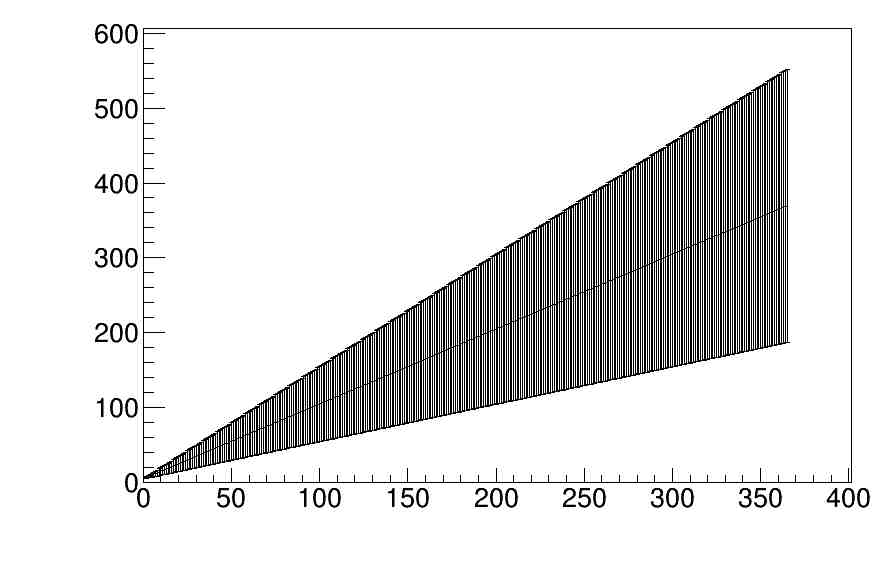
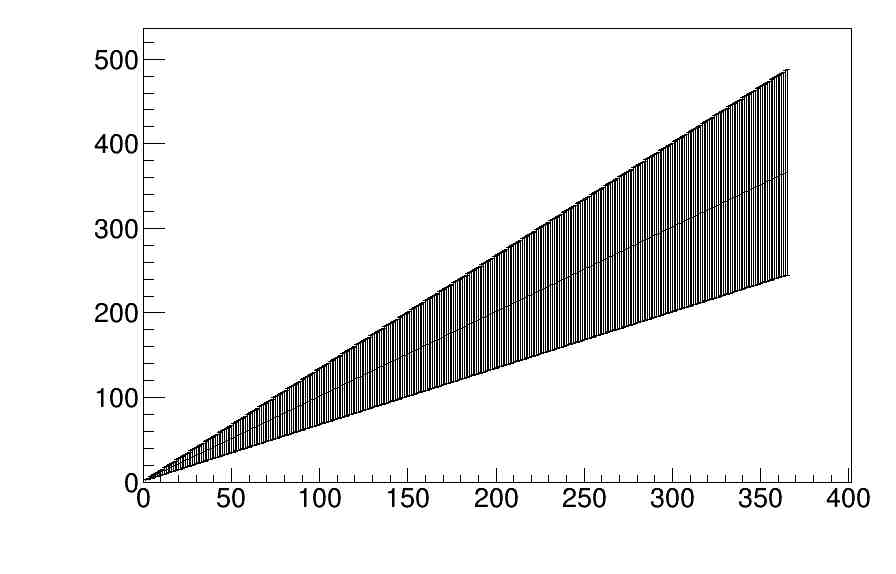
trying to fix issues with plotting in LatDiff

diff --git a/project/project.C b/project/project.C
@@ -39,13 +39,13 @@ Double_t * everyDay(string filePath="../clean_data/upsala_clean.dat", Int_t plot
 	Int_t n=365;
 	Double_t *p;
 	Double_t daysMean[n],daysStaDev[n],days[n],zeros[n];
-	static Double_t store[2][365];
+	static Double_t store[365];
 	//vector<Double_t> daysMean;
 	//vector<Double_t> daysStaDev;
 	//vector<Int_t> days;
 	//vector<Int_t> zeros;
 	for(Int_t i = 0; i < n; i++){
-		p = oneDay(filePath,i+1,0);
+		p = oneDay(filePath,i,0);
 		daysMean[i]=p[0];
 		daysStaDev[i]=p[1];
 		days[i]=i+1;
@@ -55,10 +55,12 @@ Double_t * everyDay(string filePath="../clean_data/upsala_clean.dat", Int_t plot
 		//days.push_back(i);
 		//zeros.push_back(0);
 		if (plot == 0){
-			store[0][i] = p[0];
-			store[1][i] = p[1];
+			store[i] = daysMean[i];
+			
 		}
-		
+		if (plot == 2){
+			store[i] = daysStaDev[i];
+		}
 	}
 	if (plot == 1){
 		gStyle->SetOptStat(0);
@@ -77,15 +79,15 @@ Double_t * everyDay(string filePath="../clean_data/upsala_clean.dat", Int_t plot
 		c1->SaveAs("every_day_graph_one_location.jpg");
 	}
 	if (plot == 0){
-		return *store;
+		return store;
 	}	
 }
 
 
 void LattDiff(){
 	Int_t n=365;
-	Int_t days[n];
-	Int_t zeros[n];
+	Double_t days[365];
+	Double_t zeros[365];
 	/*
 	Double_t *lund, *visby, *upsala, *umea, *luleu;
 	lund = everyDay("../clean_data/lund_clean.dat",0);
@@ -99,22 +101,24 @@ void LattDiff(){
 	Double_t umeaM[n],umeaS[n];
 	Double_t luleuM[n],luleuS[n];
 	*/
-	Double_t *test0, *test1, *test2;
-	test0 = everyDay("test0",0);
+	Double_t *test01, *test02, *test1, *test2;
+	test01 = everyDay("test0",0);
+	test02 = everyDay("test0",2);
 	test1 = everyDay("test1",0);
 	test2 = everyDay("test2",0);
-	Double_t test0M[n],test0S[n],test1M[n],test1S[n],test2M[n],test2S[n];
-	for (Int_t i=0; i < 365; i++){
+	Double_t test0M[365],test0S[365],test1M[n],test1S[n],test2M[n],test2S[n];
+	for (Int_t i=0; i < 364; i++){
 		days[i]=i+1;
 		zeros[i]=0;		
 		
-		test0M[i] = test0[0][i];
-		test0S[i] = test0[1][i];
+		test0M[i] = test01[i];
+		test0S[i] = test02[i];
+		/*
 		test1M[i] = test1[0][i];
 		test1S[i] = test1[1][i];
 		test2M[i] = test2[0][i];
 		test2S[i] = test2[1][i];
-		/*
+		
 		lundM[i] = lund[0][i];
 		lundS[i] = lund[1][i];
 		visbyM[i] = visby[0][i];
@@ -127,28 +131,18 @@ void LattDiff(){
 		luleuS[i] = luleu[1][i];
 		*/
 	}
-	gStyle->SetOptStat(0);
-	gStyle->SetOptTitle(0);
-	gStyle->SetTitleSize(0.05, "x");
-	gStyle->SetTitleSize(0.05, "y");
-	gStyle->SetLabelSize(0.05, "x");
-	gStyle->SetLabelSize(0.05, "y");
-	gStyle->SetPadTopMargin(0.05);
-	gStyle->SetPadRightMargin(0.05);
-	gStyle->SetPadBottomMargin(0.16);
-	gStyle->SetPadLeftMargin(0.16);
-	TCanvas* c1 = new TCanvas("c1", "every day graph multiple locations", 900, 600);
+	//TCanvas* c2 = new TCanvas("c2", "every day graph multiple locations", 900, 600);
 	TGraphErrors* t0 = new TGraphErrors(n,days,test0M,zeros,test0S);
 	t0->Draw("AL");
-	TGraphErrors* t1 = new TGraphErrors(n,days,test1M,zeros,test1S);
-	t1->Draw("L");
-	TGraphErrors* t2 = new TGraphErrors(n,days,test2M,zeros,test2S);
-	t2->Draw("L");
+	//TGraphErrors* t1 = new TGraphErrors(n,days,test1M,zeros,test1S);
+	//t1->Draw("L");
+	//TGraphErrors* t2 = new TGraphErrors(n,days,test2M,zeros,test2S);
+	//t2->Draw("L");
 	
 	
 	
 	
 	
-	c1->SaveAs("every_day_graph_multiple_locations.jpg");
+	//c2->SaveAs("every_day_graph_multiple_locations.jpg");
 
 }
